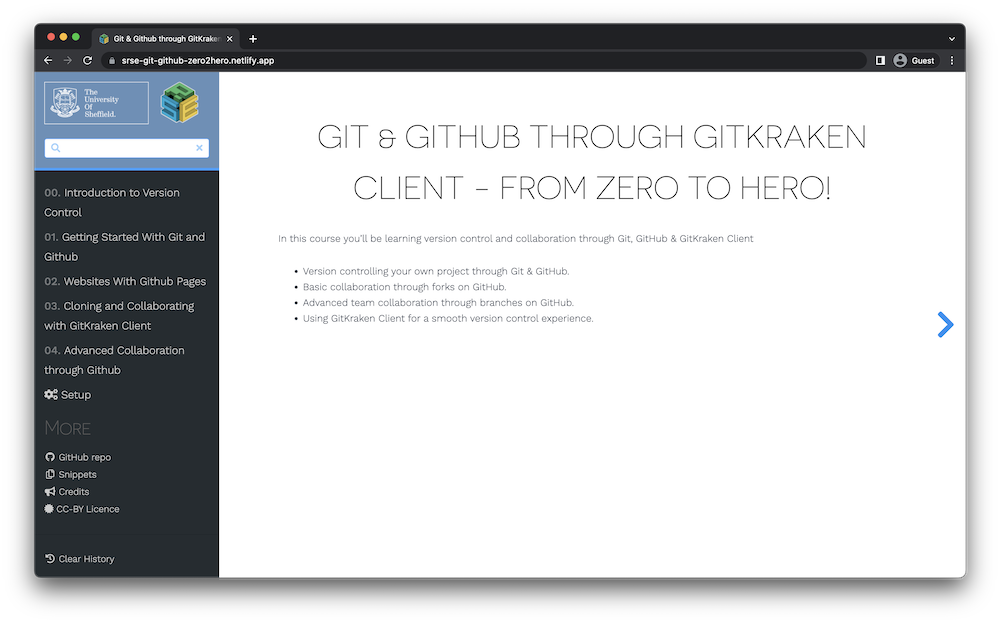
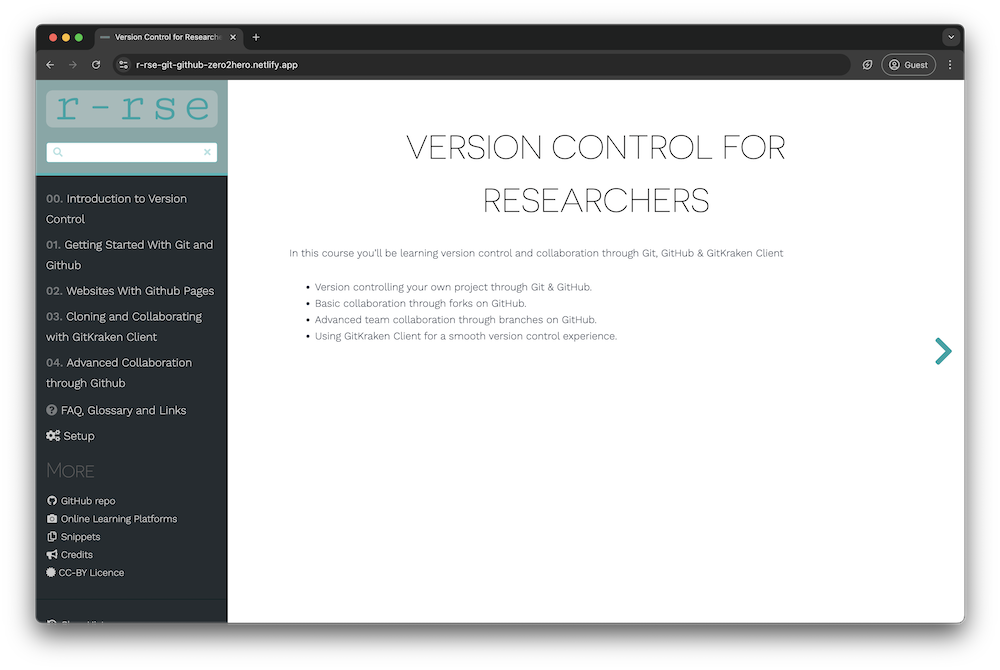
Update course details

diff --git a/content/services/training.md b/content/services/training.md
@@ -49,10 +49,10 @@ I have developed and taught a number of full to multi day courses. Here are a co
 
 
 
-{{< detail-tag tabtitle="#### Reproducible Research Data and Project Management in R" screenshot="/services/acce-rrresearch.png" href="https://annakrystalli.me/rrresearchACCE20/" duration="4 days"
+{{< detail-tag tabtitle="#### Reproducible Research Data and Project Management in R" screenshot="/services/acce-rrresearch.png" href="https://acce-rrresearch.netlify.app/" duration="5 days"
 level="Beginner to Intermediate" button-text="Course Website" platform="RStudio Cloud" >}}
 
-This 4 day course was developed for the [ACCE Doctoral Partnership](https://acce.shef.ac.uk/) program and delivered yearly from 2015 to 2021.
+This 5 day course was developed for the [ACCE Doctoral Partnership](https://acce.shef.ac.uk/) program and delivered yearly from 2015 to date.
 
 It focuses on data and project management through R and Rstudio, introduces students to best practice and equips them with modern tools and techniques for managing data and computational workflows to their full potential. The course is designed to be relevant to students with a wide range of backgrounds, working with anything from relatively small sets of data collected from field or experimental observations, to those taking a more computational approach and bigger datasets.
 
@@ -74,7 +74,7 @@ The full course materials, including a breakdown of topics covered each day, are
 
 
 
-{{< detail-tag tabtitle="#### Git & GitHub through GitKraken Client - From Zero To Hero!" screenshot="/services/gitkraken.png" href="https://srse-git-github-zero2hero.netlify.app/" duration="1 day" level="Beginner to Intermediate" button-text="Course Website" platform="GitKraken">}}
+{{< detail-tag tabtitle="#### Git & GitHub through GitKraken Client - From Zero To Hero!" screenshot="/services/gitkraken.png" href="https://r-rse-git-github-zero2hero.netlify.app/" duration="1 day" level="Beginner to Intermediate" button-text="Course Website" platform="GitKraken">}}
 
 
 
